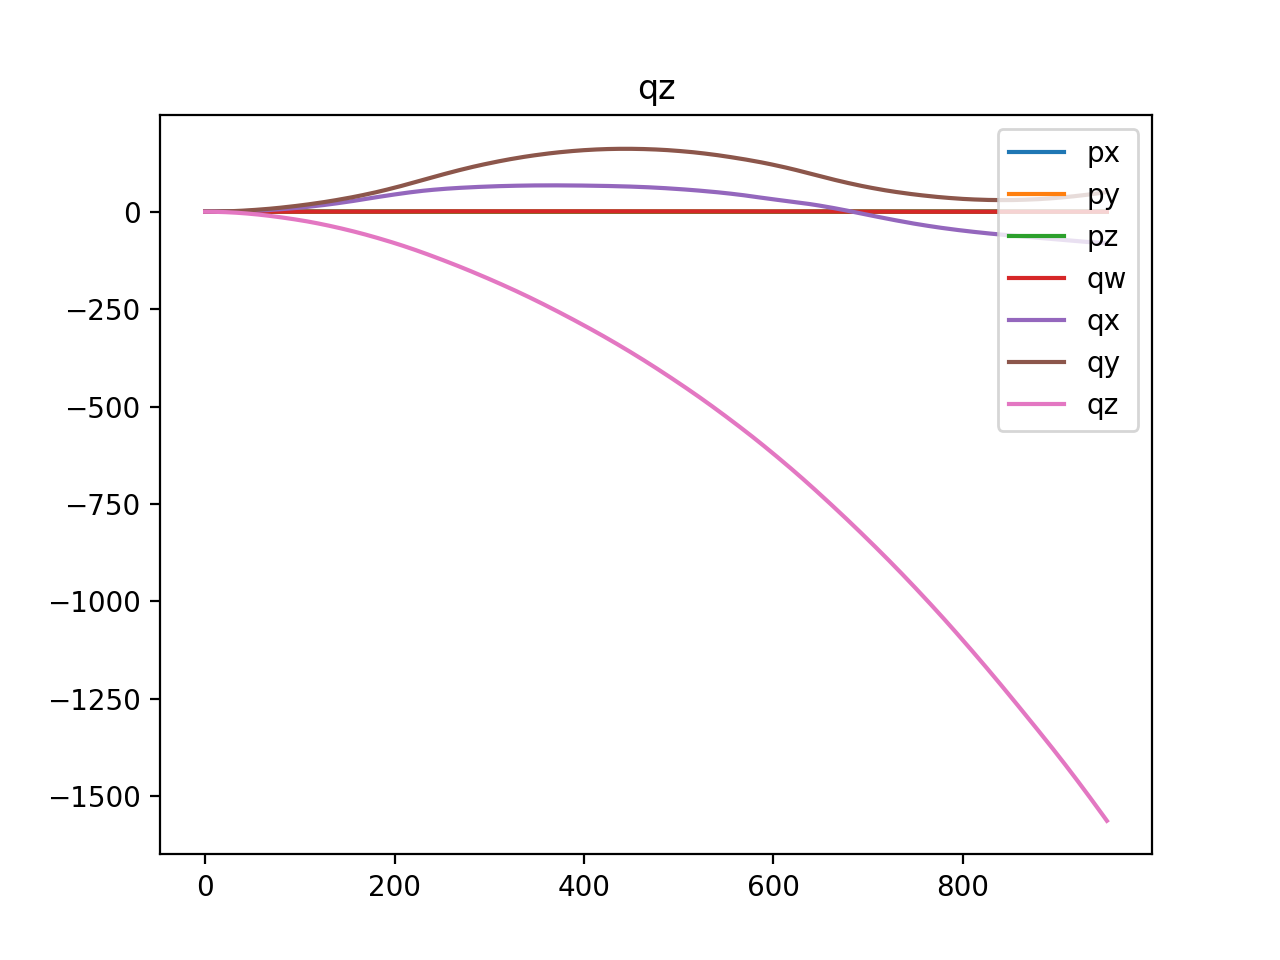
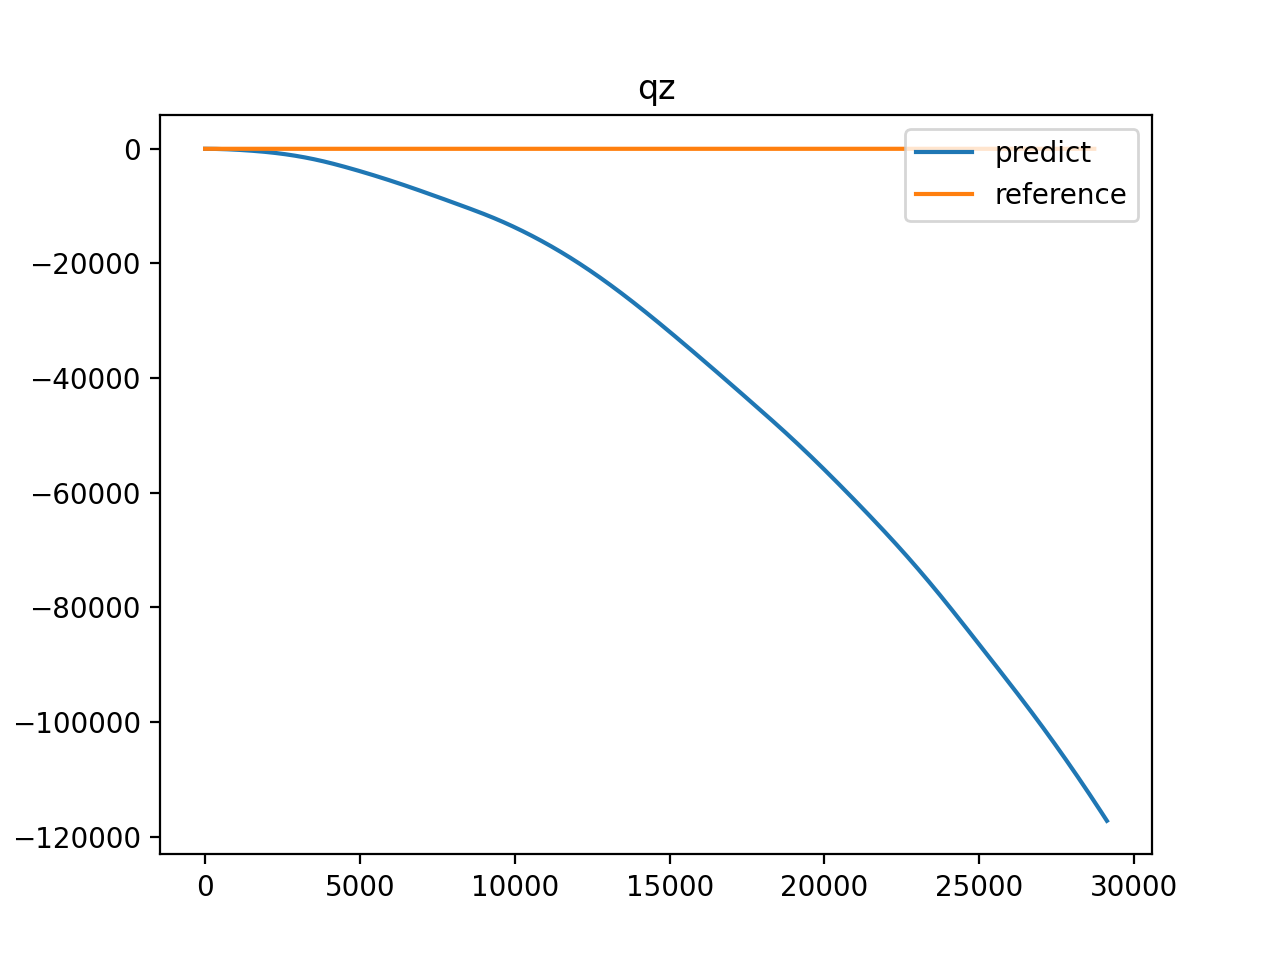
feature: Plotting EuRoC with scikit-kinematics. Not good yet

diff --git a/testes/scikinematics/try-scikit.py b/testes/scikinematics/try-scikit.py
@@ -31,29 +31,14 @@ class ScikitOdometry(skinematics.imus.IMU_Base):
         - mag : mag_field_direction
         '''
 
-        # Get the sampling rate from the second line in the file
-        try:
-            fh = open(in_file)
-            fh.readline()
-            line = fh.readline()
-            rate = np.float(line.split(':')[1].split('H')[0])
-            fh.close()
-
-        except FileNotFoundError:
-            print('{0} does not exist!'.format(in_file))
-            return -1
-
-        # Read the data
-        data = pd.read_csv(in_file,
-                           sep='\t',
-                           skiprows=4,
-                           index_col=False)
+        dataset = pd.read_csv(in_file).to_numpy()
+        omega = dataset[:, 1:4]
+        acc = dataset[:, 4:7]
 
         # Extract the columns that you want, and pass them on
-        in_data = {'rate': rate,
-                   'acc': data.filter(regex='Acc').values,
-                   'omega': data.filter(regex='Gyr').values,
-                   'mag': data.filter(regex='Mag').values}
+        in_data = {'rate': 200,
+                   'acc': acc,
+                   'omega': omega}
         self._set_data(in_data)
 
 
@@ -64,30 +49,47 @@ Runs the experiment itself.
     :return: Trained model.
     """
 
-    quaternion = [0., 1., 0., 0.]
+    dataset = \
+        pd.read_csv(
+            "dataset-files/V1_01_easy/mav0/state_groundtruth_estimate0/data.csv"
+        ).to_numpy()
+    initial_position = dataset[0, 1:4]
+    initial_orientation = dataset[0, 4:8]
 
     rotation_matrix = \
         axis_angle_into_rotation_matrix(
             *quaternion_into_axis_angle(
-                quaternion
+                initial_orientation
             )
         )
 
     initial_orientation = rotation_matrix
-    initial_position = np.r_[0, 0, 0]
 
-    my_sensor = ScikitOdometry(in_file='data_xsens.txt',
+    my_sensor = ScikitOdometry(in_file='dataset-files/V1_01_easy/mav0/imu0/data.csv',
                                R_init=initial_orientation,
-                               pos_init=initial_position)
+                               pos_init=initial_position,
+                               q_type="analytical")
 
-    dimensoes = ["qw", "qx", "qy", "qz", "px", "py", "pz", ]
-    plt.close()
+    dados_de_saida = pd.read_csv("dataset-files/V1_01_easy/mav0/state_groundtruth_estimate0/data.csv").to_numpy()[:, 1:]
+
+    dimensoes = ["px", "py", "pz", "qw", "qx", "qy", "qz"]
     for i, dim_name in enumerate(dimensoes):
+        plt.close()
         plt.plot(np.hstack((my_sensor.quat, my_sensor.pos))[:, i])
-    plt.legend(dimensoes, loc='upper right')
-    plt.title('scikit-kinematics')
-    plt.savefig('scikit-kinematics' + ".png", dpi=200)
-    plt.show()
+        plt.plot(range(dados_de_saida.shape[0]), dados_de_saida[:, i])
+        plt.legend(['predict', 'reference'], loc='upper right')
+        plt.title(dim_name)
+        plt.savefig(dim_name + ".png", dpi=200)
+        plt.show()
+
+    # dimensoes = ["qw", "qx", "qy", "qz", "px", "py", "pz", ]
+    # plt.close()
+    # for i, dim_name in enumerate(dimensoes):
+    #     plt.plot(np.hstack((my_sensor.quat, my_sensor.pos))[:, i])
+    # plt.legend(dimensoes, loc='upper right')
+    # plt.title('scikit-kinematics')
+    # # plt.savefig('scikit-kinematics' + ".png", dpi=200)
+    # plt.show()
 
 
 if __name__ == '__main__':
